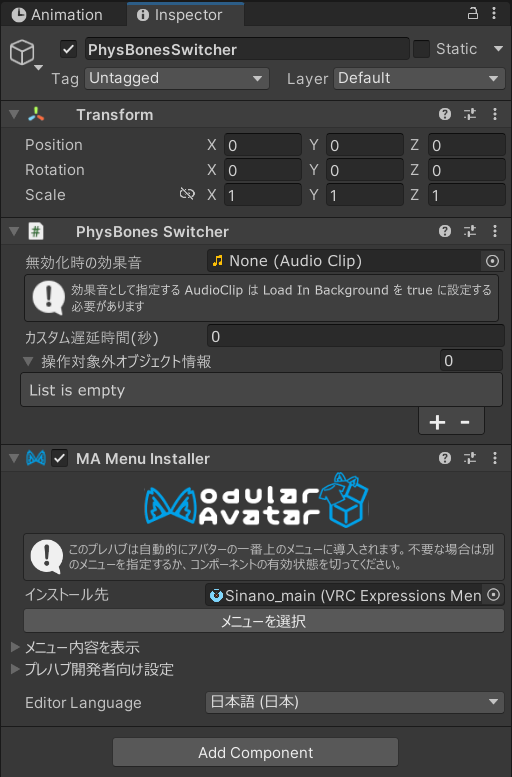
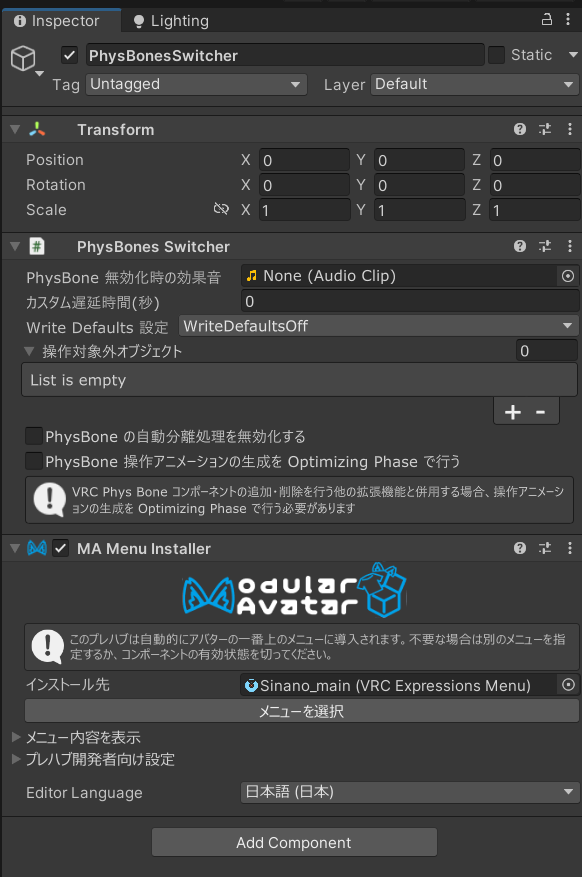
ドキュメント更新 (#28)

diff --git a/docs~/components/PhysBonesSwitcher.md b/docs~/components/PhysBonesSwitcher.md
@@ -33,3 +33,17 @@ PhysBones Swicher のメインコンポーネントです。<br />
 - 本コンポーネントで有効状態の切り替え対象としたくないオブジェクトを指定します。
   - 操作対象外としたい VRC Phys Bone が追加されているオブジェクトを指定します。
 - 「子オブジェクトも対象とする」にチェックを入れた場合、指定されたオブジェクトの子オブジェクトも対象外とします。
+
+### PhysBone の自動分離処理を無効化する
+
+- VRC Phys Bone コンポーネントの自動分離処理を行わないように設定を行う項目です。
+
+※1 オブジェクトに対して複数の VRC Phys Bone コンポーネントが割り当てられている場合、自動で 1 オブジェクトに 1 つの VRC Phys Bone コンポーネントが割り当てられるように修正を行う処理が実行されます。
+本項目は、前述の処理を行わないように明示的に設定するための項目です。
+
+### PhysBone 操作アニメーションの生成を Optimizing Phase で行う
+
+- VRC Phys Bone コンポーネントを有効化・無効化するアニメーションの生成を Optimizing Phase で行うよう変更するための項目です。
+
+※他の拡張機能で VRC Phys Bone の追加・削除が行われる場合、本コンポーネントと干渉して正常に動作しない場合があります。
+本設定項目は、それらのパターンを回避するための設定項目となります。
